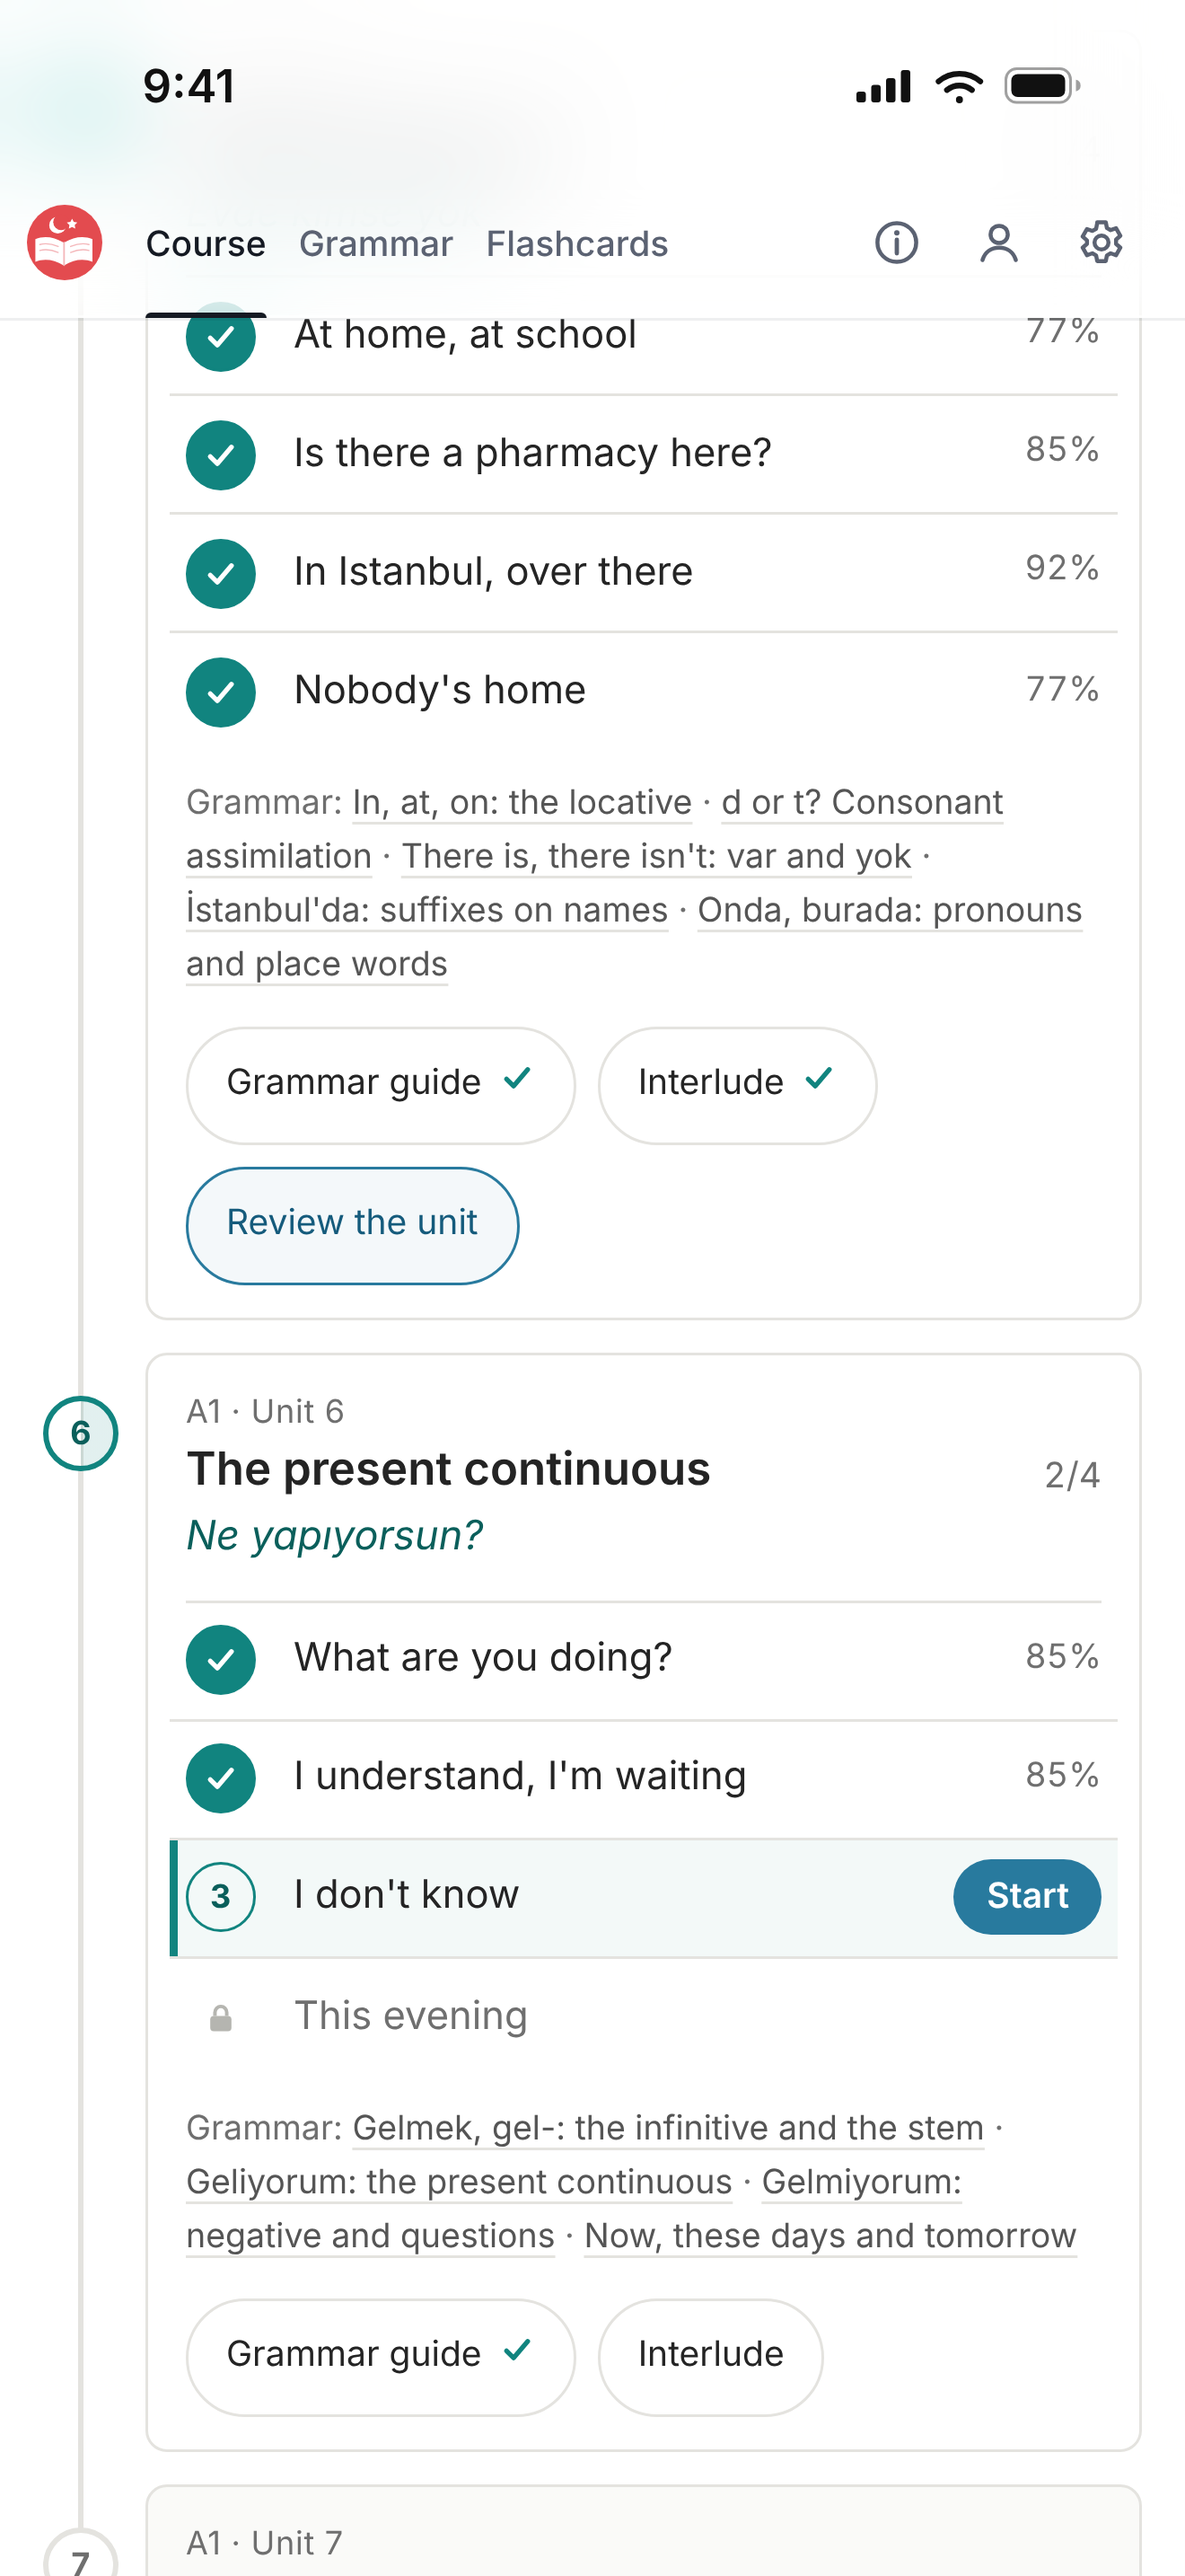
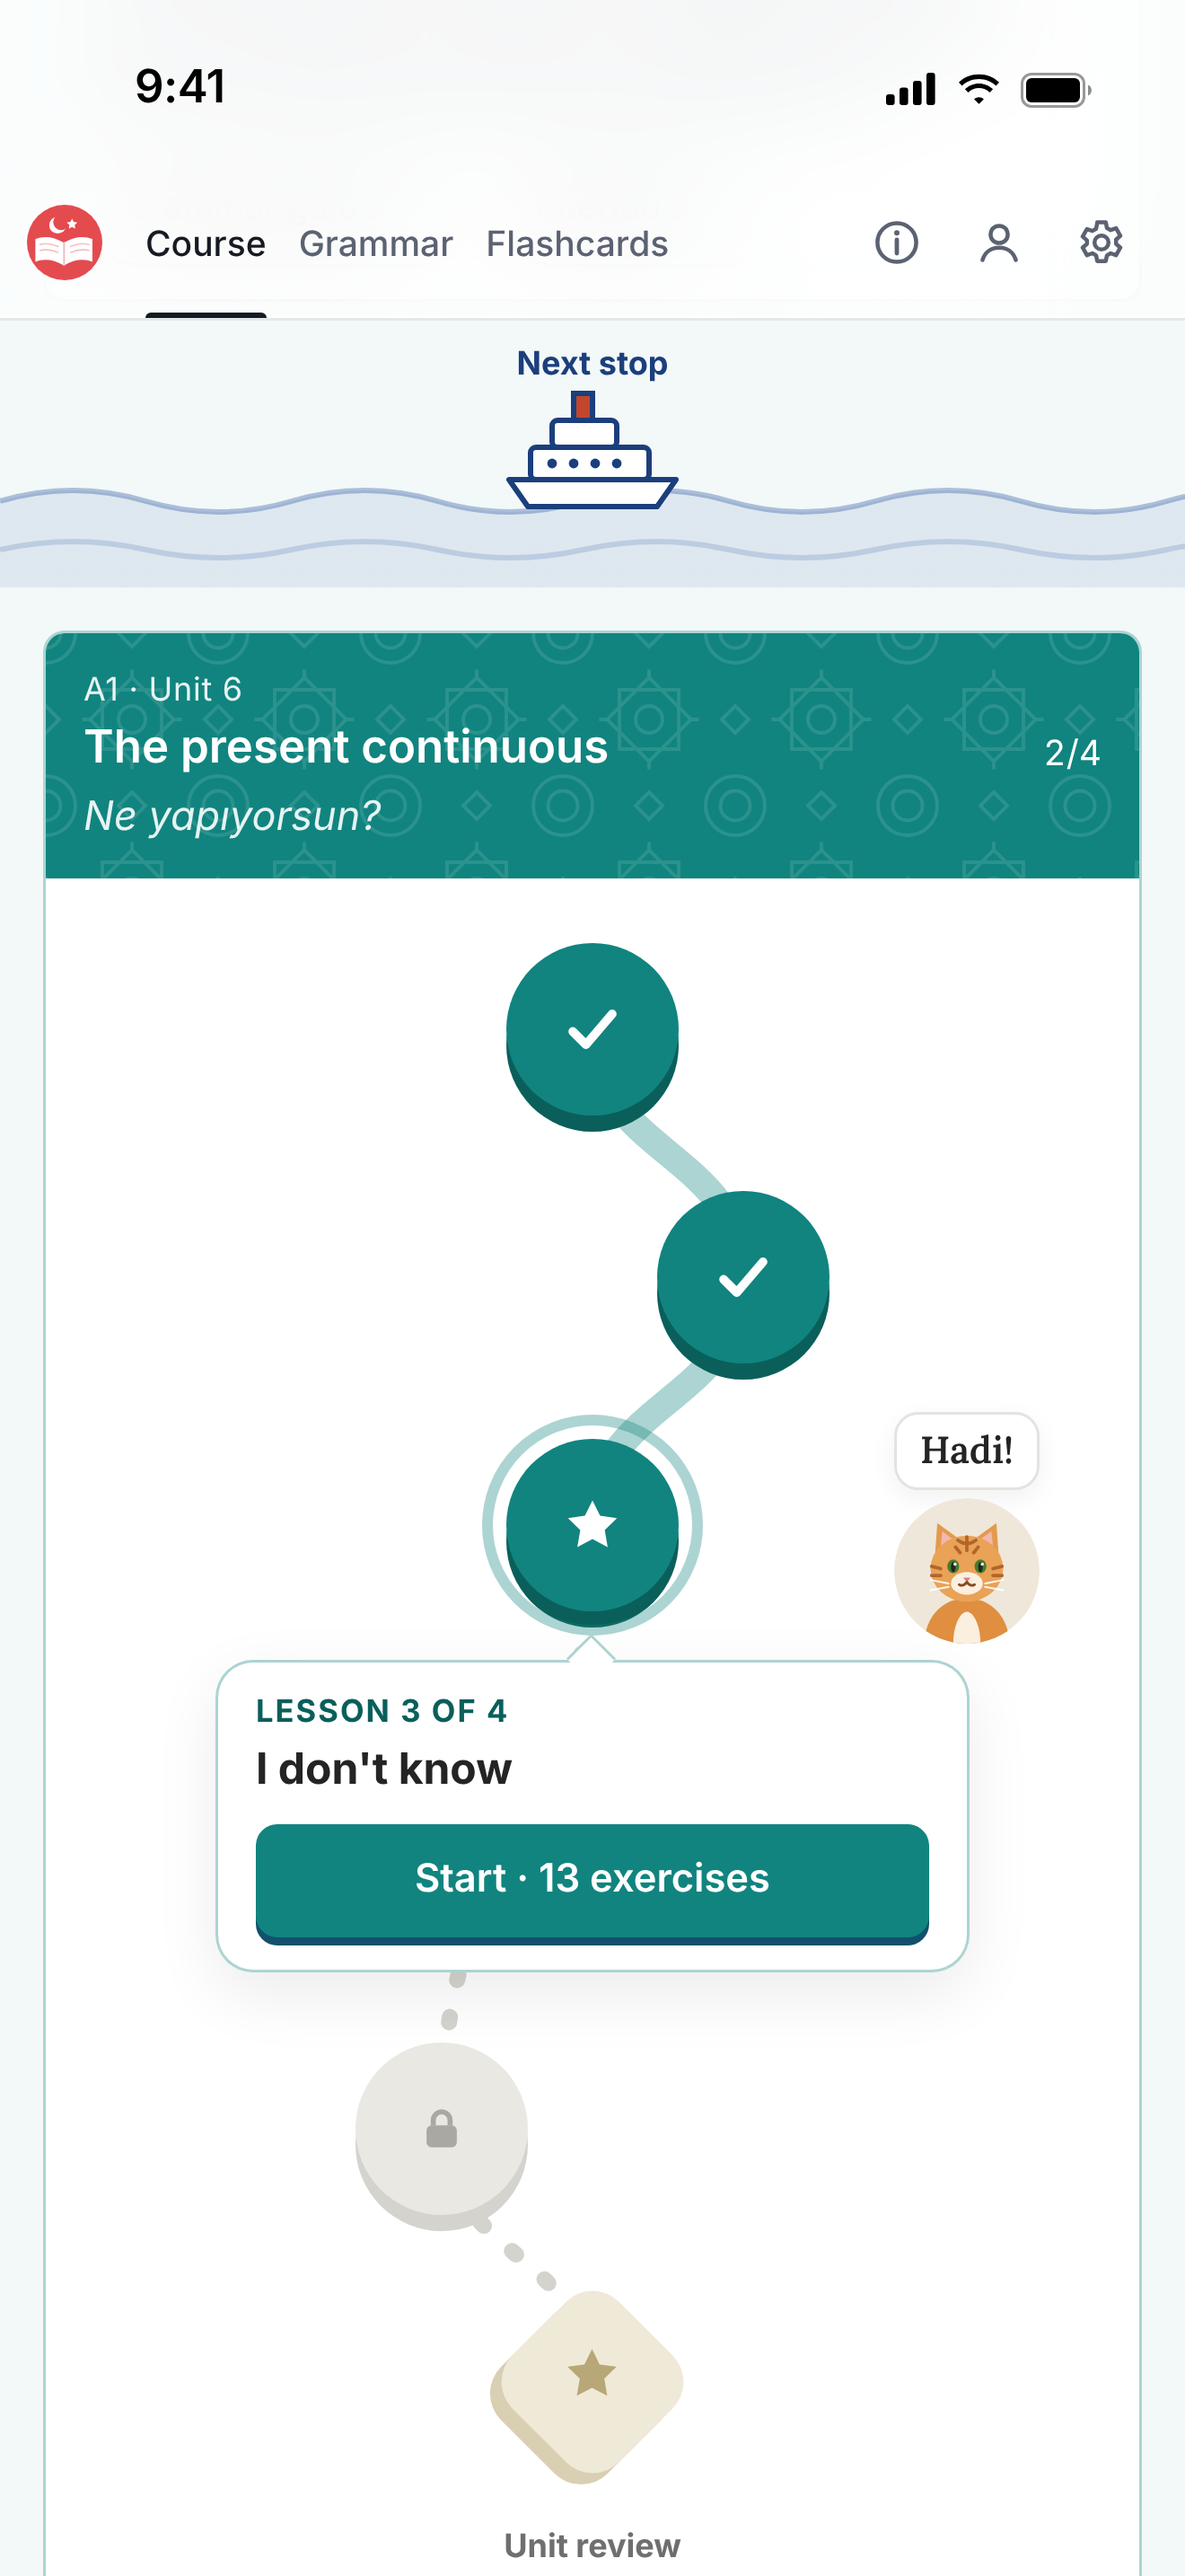
app 8

diff --git a/assets/js/turkish.js b/assets/js/turkish.js
@@ -1357,6 +1357,12 @@
   // The iPhone app's copies of the pages carry <html data-app="ios"> (app/scripts/build-www.mjs, APP-3): no online
   // profile there, and progress is "on this iPhone". null on the website, on dailyturkish.app and in Node.
   var APP = (root && root.document && root.document.documentElement && root.document.documentElement.getAttribute("data-app")) || null;
+  // In the app (APP-8): WebKit on iOS offers web content the system's built-in voices only, so a voice downloaded in
+  // Settings (Yelda Enhanced or Premium) never reaches the app's web view. No download advice there, and no "reload the page".
+  if (APP) {
+    tts.HELP = "No Turkish voice is available to the app on this iPhone, so listening exercises are skipped and words aren't read aloud. Everything else works as usual.";
+    tts.basic = function () { return false; };
+  }
 
   var TRK = {
     C: C, RE: RE, app: APP,

diff --git a/turkish/PROJECT.md b/turkish/PROJECT.md
@@ -1265,7 +1265,7 @@ Defaults: `translate` and `listen` are lenient; `cloze` and `conjugate` are stri
 
 - `speechSynthesis` with `lang = "tr-TR"` and the best voice whose `lang` starts with `tr` (`TRK.tts.score`: Premium, then Enhanced or network voices, compact ones last; re-checked when the device reports new voices). Speed `settings.ttsRate`; a slow button plays at 0.75 (or 85% of the chosen speed if that is lower).
 - A second Turkish speaker (`TRK.tts.voice2`, a different person from the first voice) reads the lines given a `pitch` below 1, so dialogues have two real voices; the pitch is then halved toward 1. Without a second speaker, pitch alone tells them apart, as before.
-- Settings show both voices, and on an Apple device with a basic voice, how to download Yelda (Enhanced) or (Premium) (`TRK.tts.UPGRADE`).
+- Settings show both voices, and on an Apple device with a basic voice, how to download Yelda (Enhanced) or (Premium) (`TRK.tts.UPGRADE`). Not in the iPhone app (`TRK.app`): WebKit on iOS gives web content the built-in voices only, so a downloaded voice never reaches it; there `TRK.tts.basic` is always false and `TRK.tts.HELP` says only that listening exercises are skipped (APP-8).
 - A speaker button sits on every `listen` exercise, every Turkish prompt, lesson vocab and flashcards.
 - Typed answers get a bar of Turkish letters, `ç ğ ı ö ş ü`, with a shift key for `Ç Ğ İ Ö Ş Ü`. Input fields use `lang="tr"`, `autocapitalize="off"`, `autocorrect="off"` and `spellcheck="false"`.
 
@@ -1574,3 +1574,4 @@ One row per conversation, newest at the bottom.
 | 2026-11-06 | TTS-2 | **Better device voice**, asked by Grégoire as a quick fix before pre-recorded audio. `turkish.js` section 10: voices ranked (`score`, `list`) instead of the first `tr` one, so Yelda (Enhanced) or (Premium) wins over the compact Yelda; `voice2`, a second Turkish person, reads dialogue and listening lines with a pitch below 1 (callers unchanged); slow 0.6 → 0.75 (`TTS_SLOW`, capped at 85% of the chosen speed); the best voice kept up to date on `voiceschanged`. Hub and flashcards Settings: the second voice, and `UPGRADE` advice on Apple devices with a basic voice. 6.5 and 6.7 updated. | `test.mjs`: 74/74. A stub voice list (compact Yelda, compact Cem, Yelda (Enhanced), an English voice): Yelda (Enhanced) chosen, Cem as second voice, slow at 0.75, pitch 0.8 → Cem at 0.9, pitch 1.05 → Yelda. | **Not tested**: real iOS and Safari voices (names and `voiceURI`s assumed from Apple's `com.apple.voice.{compact,enhanced,premium}` pattern). The app needs a rebuild (`app/`) to pick it up. **Next**: pre-generated clips from a neural voice, shared with the Turkmen AUD-1 plan. Nothing committed by Claude. |
 | 2026-11-06 | FX-1 | **Faces, a companion and chunky buttons**, asked by Grégoire (Duolingo-like colour and motion "without being too much", in the website first, the app to follow from the same files). New `assets/js/turkish-cast.js` (6.10): 24 faces for the 12 dialogues' cast with moods (smile, happy, unsure, puzzled), blink and a talking mouth; the companion's phrases. `turkishlesson.html`: faces on the conversation list, start card, bubbles and debrief, speech-synced mouths, reactions to your reply; the companion over the dock at runs of 3/5/10/+5 right answers and when a run of 3+ breaks, and beside the trophy on the end screen. Shared block of `turkish.html`, `turkishlesson.html`, `turkishguide.html`, `turkishcards.html`: chunky buttons. `turkish.js`: a passive `touchstart` listener for `:active` on iOS. `app/scripts/build-www.mjs` and `.github/workflows/sync-dailyturkish.yml`: `turkish-cast.js` added to the files. 3 and 6.10 updated. No content, schema, progress or storage change. | `test.mjs` 74/74; `validate.mjs` all checks passed. Checked in Chrome at 390 and 1280 px: list, start card, a conversation (talking mouth, raised eyebrow after a wrong reply), a lesson (companion at 3 in a row and when the run broke), a practice end screen, the hub; no script errors. App build on a scratch copy: 458 files with `turkish-cast.js`, loaded on the lesson page. | **The app build fails at HEAD (16601a0) without FX-1**: `content-4plus.mjs` line 189 expects "the deck is the 1,000 most frequent words, in order" in `turkish.html`, which the About rewrite removed; update or drop that rule (the hub still says "1,000 most useful words" where the app has 985). Not seen on a real iPhone (speech events, `:active`). Lesson faces only: the hub's Conversations card could show them later. Nothing committed by Claude. |
 | 2026-11-06 | FX-2 | **Level colours on every width, the trail on phones**, asked by Grégoire after mock-ups of his ideas 5 and 6 (he picked 5 for computers and 6 for phones). `turkish.html` only: CSS block FX-2 and `trailHtml`, `nextBar`, `FERRY`; `renderUnit` gets the unit's position (for the ferry) and marks the unit of the next lesson. 6.10 updated. No content, schema, progress or storage change. | `test.mjs` 74/74. Checked in Chrome at 360, 390 and 1280 px with seeded progress (A1 unit 1 mastered, unit 2 lesson 1 done): Continue card, chips, open level, done and current unit headers, trail states (done, next with card and character, locked, gold and grey review), ferry; no script errors. | Not seen on a real iPhone. Every unit of an open level draws its trail, so A1 open on a phone is long (about 12,000 px); folding done units into one line on phones would shorten it. Nothing committed by Claude. |
+| 2026-11-11 | APP-8 | **iOS app brought up to date after FX-1, FX-2 and TTS-2, before the first TestFlight build**, asked by Grégoire. **Build**: `app/www` rebuilt (deletion allowed in the folder for this): 458 files, 985 cards, 226 lessons, 2,875 exercises, 116 edits; the culture/Turkmen checks pass (no `turkishculture.html`, `timeline.json` or link to either). It failed first on the PAGE_EDITS rule for "the deck is the 1,000 most frequent words, in order" (FX-1's note): the About rewrite of 0f13dba removed that sentence, so the rule went too (comment left in `content-4plus.mjs`); the other deck-size rules still find their text. FX-1's new strings (`turkish-cast.js`, the pages) checked against `GUARD`: 0 matches. **TTS-2 in WKWebView**: WebKit on iOS lists only the system's built-in voices to web content (`isSystemVoice`, else default quality; every voice `default: true`), so a Yelda (Enhanced) or (Premium) downloaded in Settings never reaches the app; the ranking, `voice2` and the slow rate work on what it does list. App only, by `TRK.app` in `turkish.js`: `tts.basic` is always false (no download advice, which could not work there) and `tts.HELP` says only that listening exercises are skipped (no Mac, no "reload the page"); the website's texts are unchanged. 6.5 updated. **Privacy page**: `EMAIL_TODO` (both) replaced by gregoire.maillard@yahoo.fr, the TODO comment removed, date 11 November 2026 (Grégoire's ecaa13e, made during this session with the Turkmen units, committed it as is). **Screenshots**: the six in `app/store/screenshots/` re-rendered in the new design, same scenes and order (the trail of unit 6 with Tekir and *Hadi!*; a1-u06-l03-e13 right, 10 in a row, the companion cheering; the end screen with Tekir, goal met; a flashcard's answer side; the a1-u06 guide; My Profile), 1320×2868 RGB without alpha, from a fresh demo progress (22 lessons to a1-u06-l02, 4 reviews, 21-day streak, 200 cards; `TRK.progress.validate` clean), a drawn 9:41 status bar, pointer parked so no `:hover` shows. `app/store/listing.md`: captions; Content Rights now says the FrequencyWords credit left About in 8f26cda. `app/RELEASE.md` steps 12 and 14 to match. | `test.mjs` 74/74 on the repo and on the app's filtered copy; `validate.mjs --strict` all checks passed (filtered copy: only the expected `index.json` version and the 5 short card files). Playwright (Chromium 153, 440×956 @3×, `app/www` served locally, Capacitor and its plugins stubbed as native with calls recorded, **real `env(safe-area-inset-*)` of 62/34 px through CDP `Emulation.setSafeAreaInsetsOverride`**; scratch harness outside the repo): hub, profile, settings, flashcards, guide, privacy and a conversation scrolled top to bottom: header at 0 with 62 px of glass, no fixed or sticky element in the status-bar or home-bar areas, 34 px at every page end, no sideways scroll, no script error, 404 or external request; a1-u06-l03 played from its file with one mistake: chunky Begin/Check/Continue (bottom-edge shadow), dock at the bottom with 46 px padding (12 with the keyboard up), light impact on every right answer, warning on the wrong one and its retries, the goal pattern once at the end (23 → 40 of 30 XP); companion at 3, 10 in a row and when the run broke, Tekir on the end screen; keyboard simulated (viewport 956 → 620, insets 62/0, `keyboardWillShow`/`DidShow`): the conjugation table's last field scrolled once to 435–483 with the letter bar at 493–537 above the dock at 545, stable from 250 ms on and while typing, fields already in view not moved; FX-2 on the hub: Continue card in the level colour, A1's trail (ticks, star with ring and Start card, Tekir, locked nodes, review diamond, ferries); dlg-cafe: faces on the cast, a miss gives the warning and a reply with feedback the light tap; TTS with WKWebView-like lists: compact Yelda alone, Yelda and Cem (Cem reads pitch 0.8 at 0.9), Yelda (Enhanced), and none (the two `listen` exercises skipped, 11 of 13 shown, no speaker buttons, the app's notice, no errors); the website still shows the download advice. WebKit couldn't be installed in the cloud workspace, so no Safari engine. | **Before submitting**: the FrequencyWords credit (CC BY-SA 4.0) is no longer in the app (About rewrite of 8f26cda; only `LICENSE.txt`): put a line back, or the Content Rights answer isn't true. **On the phone**: whether the iPhone lists a Turkish voice to the app at all (iOS 18 reports in Apple's forums show only built-in voices reaching web content; on a phone without one, listening is skipped). The lasting fix is the pre-recorded audio TTS-2 plans, or a native speech plugin (AVSpeechSynthesizer can use Enhanced voices). **Found, not changed**: in conversations a plain right reply that moves straight on (no feedback in the dock) gives no haptic, a miss or a reply with feedback does (since DLG-1, not FX-1); the pages' `:hover` rules aren't behind `@media (hover: hover)`, so on a phone a tapped button can keep its hover tint until the next tap (as before FX-1). Not run: `npm run sync` (the TestFlight workflow runs it; `ios/App/App/public` is git-ignored and still holds the old copy until then). `app/node_modules/.cache/` scratch archive removed. Nothing committed by Claude. |

diff --git a/app/store/listing.md b/app/store/listing.md
@@ -37,8 +37,11 @@ Learn Turkish from A1 to C2
 "Does your app contain, show, or access third-party content?" **Yes.**
 "Do you have all necessary rights to that content or are you otherwise permitted to use it?" **Yes.**
 
-Why: the order of the words is adapted from FrequencyWords by Hermit Dave (CC BY-SA 4.0), credited in About; the Lora font
+Why: the order of the words is adapted from FrequencyWords by Hermit Dave (CC BY-SA 4.0); the Lora font
 is under the SIL Open Font License (`LORA-OFL.txt` is bundled). Meanings, examples, notes, lessons and guides are your own.
+**Before submitting:** the FrequencyWords credit left the About page in the 5 November rewrite (8f26cda) and is now only in
+`LICENSE.txt`, which the app doesn't ship. CC BY-SA asks for the credit where the deck is used: put a line back in About (or the
+flashcards page) so this answer stays true (APP-8).
 
 ### Age Rating (Edit, then answer)
 
@@ -134,12 +137,14 @@ The first version of Daily Turkish: 226 lessons from A1 to C2, a grammar guide a
 
 **Screenshots, 6.9-inch display** (1320 × 2868 px, portrait, in this order), from `app/store/screenshots/`:
 
-1. `01-path.png`: the course path, unit 6 in progress
-2. `02-lesson-exercise.png`: a dialogue exercise, answered correctly
-3. `03-lesson-complete.png`: the end-of-lesson screen, daily goal met
+1. `01-path.png`: the course path on a phone, unit 6 as a trail: two lessons done, the next one with its Start card and Tekir saying *Hadi!*
+2. `02-lesson-exercise.png`: a dialogue exercise answered correctly, 10 in a row, the companion cheering
+3. `03-lesson-complete.png`: the end-of-lesson screen with Tekir, daily goal met
 4. `04-flashcards.png`: a flashcard with its answer and grading buttons
 5. `05-grammar-guide.png`: the grammar guide of A1 unit 6
 6. `06-my-profile.png`: My Profile (level, XP, streak, XP chart)
+
+Re-rendered in APP-8 for the FX-1/FX-2 design (faces, companion, chunky buttons, level colours, the trail).
 
 They show a made-up learner (demo progress built with the course's own functions: 22 lessons, 21-day streak, about 200 words started),
 not real progress. 6.9-inch screenshots are scaled down for the smaller iPhones, so no other size is needed.

diff --git a/app/RELEASE.md b/app/RELEASE.md
@@ -52,7 +52,8 @@ Free: macOS runner minutes cost nothing on a public repo. Only the Apple Develop
    open Daily Turkish › Install. Check:
    - a lesson: a tap on a right answer, a double tap on a wrong one, a buzz at the end; in a typing exercise the
      answer box and the Turkish letters stay visible above the keyboard, with Check just above it;
-   - flashcards, and the Turkish voice;
+   - flashcards, and the Turkish voice (Settings › Speech names it; the app can only use the iPhone's built-in voices, not
+     ones downloaded in Settings, so with none it says listening exercises are skipped: note which you get);
    - the header's glass behind the clock and the Dynamic Island, nothing hidden under it while scrolling, the
      bottom of each page clear of the home bar; turning the phone doesn't rotate the app;
    - Settings › Export progress: the share sheet opens (try Save to Files), and the file also shows in
@@ -65,7 +66,7 @@ Free: macOS runner minutes cost nothing on a public repo. Only the Apple Develop
 
 14. **App Information** (left sidebar, under General):
     - Subtitle (30 characters max) · Category: **Education**
-    - Content Rights: the deck's word order is adapted from FrequencyWords (CC BY-SA 4.0, credited in About):
+    - Content Rights: the deck's word order is adapted from FrequencyWords (CC BY-SA 4.0, no longer credited in About since 5 November: put the credit back first, see `app/store/listing.md`):
       answer that the app contains third-party content and you have the rights to use it
     - Age Rating › Edit › answer None/No throughout › result 4+ (true for the app's filtered course, see README
       "The course for a 4+ age rating"; the website's course would be 13+). Paste-ready answers: `app/store/listing.md`
